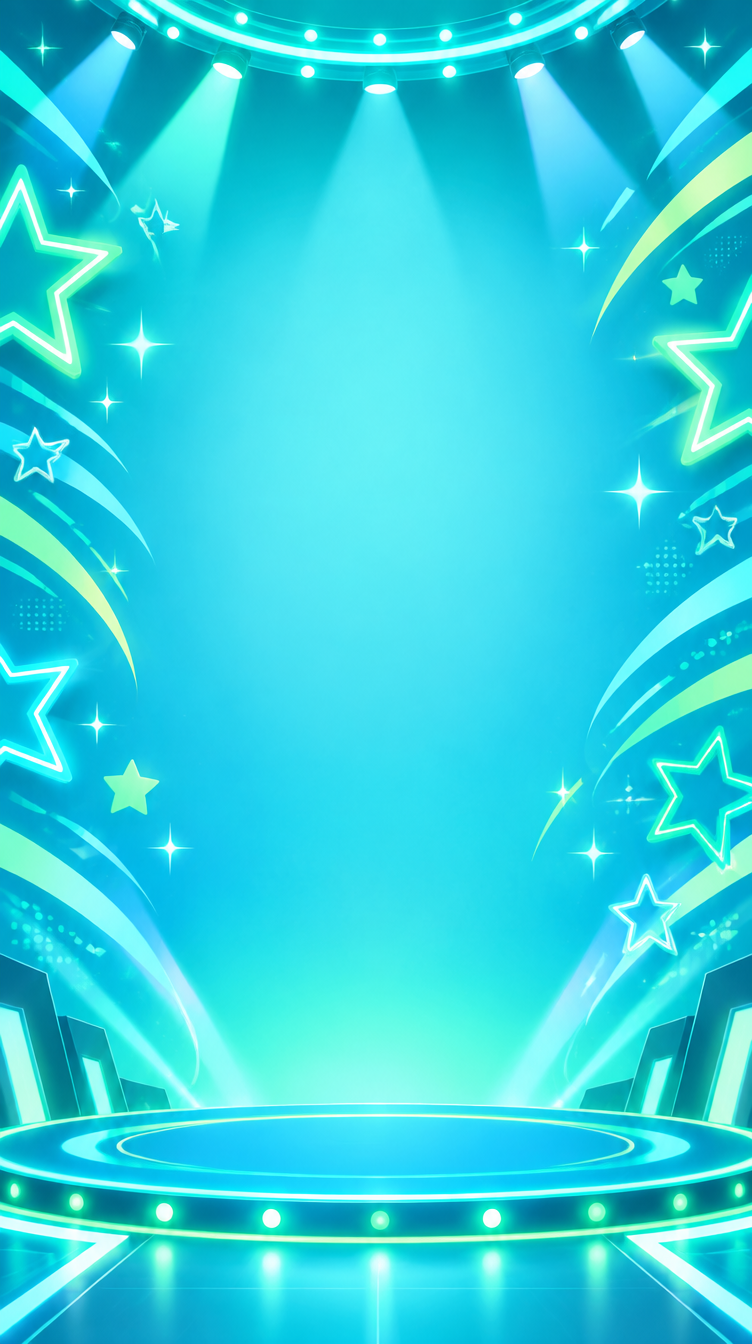
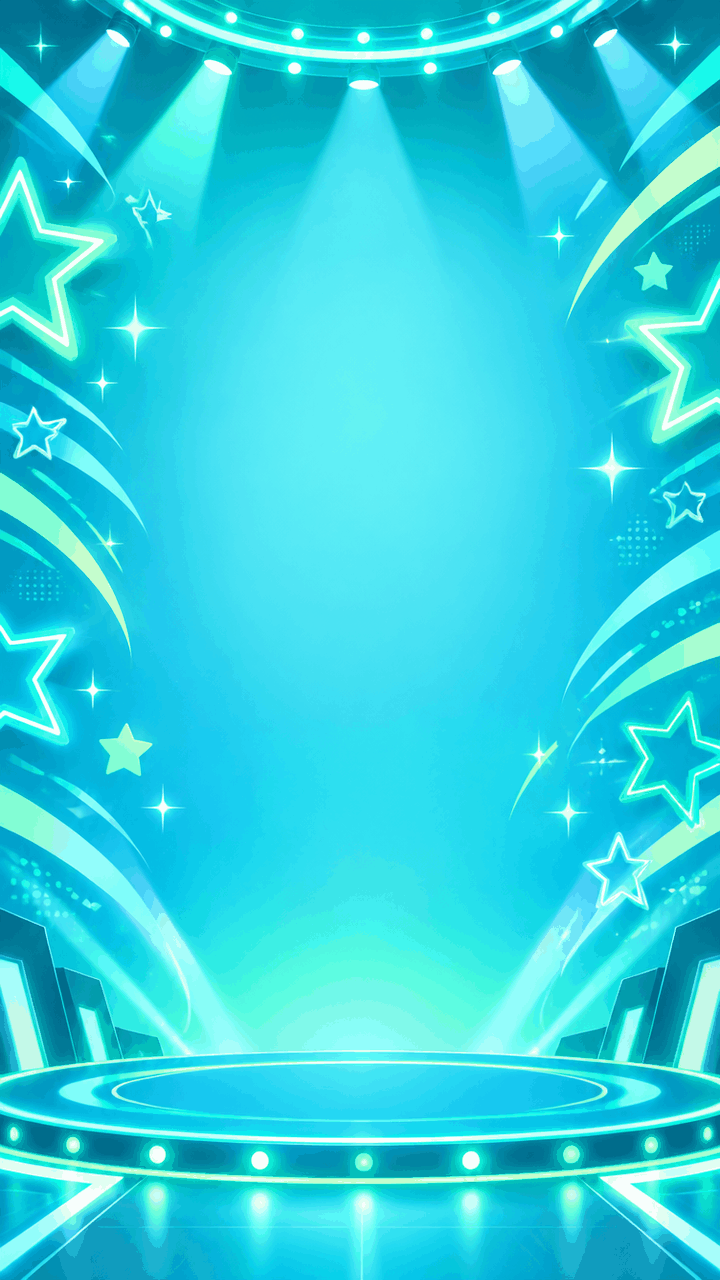
הכנת הנכסים המקוריים לשימוש באפליקציה
הנכסים ירדו בהצלחה דרך GitHub Actions, ונדרשה התאמה שלהם לתצוגה:

- הסרת רקע הצבע האחיד מהדמויות ומהחפצים והפיכתו לשקוף, כך שהם
  מופיעים כדמויות חופשיות מעל העיצוב ולא כריבועים
- הקטנת הרקעים לגודל מסך טלפון וצמצום משקל הקבצים, מ-22 מגה ל-6 מגה,
  לקיצור הטעינה הראשונה וההתקנה לא מקוונת
- התאמת התמונות למשמעותן: המתנה הסגורה מייצגת את הכספת הנעולה,
  ותיבת האוצר הפתוחה מייצגת את הכספת שנפתחה
- מקום ייעודי לדמות שמתקדמת על מד החיסכון, בלי חפיפה עם הצנצנת
- שלב ההכנה משולב בסקריפט ההורדה ובתהליך העבודה של GitHub

Claude-Session: https://claude.ai/code/session_01Jm16qUpvXXfbddouHmJmqr

diff --git a/src/screens/SavingsScreen.tsx b/src/screens/SavingsScreen.tsx
@@ -40,14 +40,14 @@ export function SavingsScreen({ onHome }: { onHome: () => void }) {
       {pastHalfway && (
         <div className="coins-strip">
           <img src="/assets/coins-big.png" alt="ערמת מטבעות" />
-          <span>עברת את חצי הדרך אל היעד</span>
+          <span>{moneyDone ? 'הגעת ליעד המלא' : 'עברת את חצי הדרך אל היעד'}</span>
         </div>
       )}
 
       <div className="vault-card">
         {vaultStatus === 'open' ? (
           <>
-            <img className="vault-img burst" src="/assets/gift.png" alt="הכספת נפתחה" />
+            <img className="vault-img burst" src="/assets/chest.png" alt="הכספת נפתחה" />
             <div className="big-amount">{state.savedAmount} ₪</div>
             <p className="speech">הכספת נפתחה! הכסף שלך והרווחת אותו בעבודה אמיתית.</p>
             <Hero mood="celebrate" size={180} />
@@ -56,8 +56,8 @@ export function SavingsScreen({ onHome }: { onHome: () => void }) {
           <>
             <img
               className={`vault-img${vaultStatus === 'ready' ? ' shake' : ''}`}
-              src="/assets/chest.png"
-              alt="כספת נעולה"
+              src="/assets/gift.png"
+              alt="המתנה שעדיין סגורה"
             />
             <div className="big-amount">{state.savedAmount} ₪</div>
             <p className="meter-label">

diff --git a/src/index.css b/src/index.css
@@ -272,6 +272,7 @@ button {
 
 .meter-track {
   position: relative;
+  margin-top: 34px;
   height: 26px;
   border-radius: 999px;
   background: rgba(255, 255, 255, 0.12);
@@ -289,8 +290,11 @@ button {
 
 .meter-hero {
   position: absolute;
-  top: -30px;
-  width: 46px;
+  top: -52px;
+  width: 44px;
+  height: 58px;
+  object-fit: contain;
+  object-position: bottom;
   transition: inset-inline-start 700ms cubic-bezier(0.22, 1, 0.36, 1);
   filter: drop-shadow(0 4px 8px rgba(0, 0, 0, 0.5));
 }

diff --git a/src/components/SavingsMeter.tsx b/src/components/SavingsMeter.tsx
@@ -35,7 +35,7 @@ export function SavingsMeter({ saved, goal, compact = false }: SavingsMeterProps
           src="/assets/hero.png"
           alt=""
           aria-hidden="true"
-          style={{ insetInlineStart: `calc(${markerPercent}% - 23px)` }}
+          style={{ insetInlineStart: `calc(${markerPercent}% - 22px)` }}
         />
       </div>
     </div>

diff --git a/scripts/optimize-assets.py b/scripts/optimize-assets.py
@@ -1,0 +1,128 @@
+"""מכין את הנכסים שירדו לשימוש באפליקציה.
+
+שתי פעולות:
+1. חפצים ודמויות: הסרת רקע הצבע האחיד והפיכתו לשקוף, חיתוך לשוליים והקטנה.
+2. רקעים: הקטנה לגודל מסך טלפון וצמצום משקל הקובץ.
+
+הקבצים המקוריים נשמרים בשרת המקור, והרצת scripts/fetch-assets.sh מחזירה אותם.
+"""
+import os
+import sys
+
+from PIL import Image, ImageDraw, ImageFilter
+
+ROOT = os.path.dirname(os.path.dirname(os.path.abspath(__file__)))
+ASSETS = os.path.join(ROOT, "public", "assets")
+
+# גודל התצוגה המרבי לכל סוג נכס, בפיקסלים
+CUTOUT_SIZES = {
+    "hero.png": 768,
+    "hero-cheer.png": 768,
+    "hero-encourage.png": 768,
+    "hero-celebrate.png": 768,
+    "coin.png": 512,
+    "coins-small.png": 512,
+    "coins-big.png": 512,
+    "jar.png": 512,
+    "chest.png": 512,
+    "trophy.png": 512,
+    "medal.png": 512,
+    "gift.png": 512,
+}
+
+BG_SIZE = (720, 1280)
+BG_COLORS = 160
+FLOOD_TOLERANCE = 42
+SENTINEL = (1, 2, 3)
+
+
+def remove_flat_background(image: Image.Image) -> Image.Image:
+    """מסיר את רקע הצבע האחיד בעזרת מילוי משוליים, כך שצבעים זהים בתוך הדמות נשמרים."""
+    rgb = image.convert("RGB")
+    width, height = rgb.size
+    work = rgb.copy()
+    seeds = [
+        (0, 0),
+        (width - 1, 0),
+        (0, height - 1),
+        (width - 1, height - 1),
+        (width // 2, 0),
+        (width // 2, height - 1),
+        (0, height // 2),
+        (width - 1, height // 2),
+    ]
+    for seed in seeds:
+        ImageDraw.floodfill(work, seed, SENTINEL, thresh=FLOOD_TOLERANCE)
+
+    import numpy as np
+
+    data = np.array(work)
+    is_background = (
+        (data[:, :, 0] == SENTINEL[0])
+        & (data[:, :, 1] == SENTINEL[1])
+        & (data[:, :, 2] == SENTINEL[2])
+    )
+    alpha = Image.fromarray(np.where(is_background, 0, 255).astype("uint8"), mode="L")
+    # ריכוך קל של הקצה כדי למנוע שפה חדה סביב הדמות
+    alpha = alpha.filter(ImageFilter.GaussianBlur(0.7))
+
+    result = rgb.convert("RGBA")
+    result.putalpha(alpha)
+    return result
+
+
+def process_cutout(name: str, max_size: int) -> str:
+    path = os.path.join(ASSETS, name)
+    before = os.path.getsize(path)
+    image = Image.open(path)
+    if image.mode == "RGBA" and image.getextrema()[3][0] < 255:
+        cut = image  # כבר שקוף, אין צורך להסיר רקע
+    else:
+        cut = remove_flat_background(image)
+    bbox = cut.getbbox()
+    if bbox:
+        cut = cut.crop(bbox)
+    cut.thumbnail((max_size, max_size), Image.LANCZOS)
+    cut.save(path, "PNG", optimize=True)
+    after = os.path.getsize(path)
+    return f"{name:22} {before // 1024}KB -> {after // 1024}KB  {cut.size[0]}x{cut.size[1]} שקוף"
+
+
+def process_background(name: str) -> str:
+    path = os.path.join(ASSETS, name)
+    before = os.path.getsize(path)
+    image = Image.open(path).convert("RGB")
+    image = image.resize(BG_SIZE, Image.LANCZOS)
+    image = image.quantize(colors=BG_COLORS, method=Image.MEDIANCUT, dither=Image.FLOYDSTEINBERG)
+    image.save(path, "PNG", optimize=True)
+    after = os.path.getsize(path)
+    return f"{name:22} {before // 1024}KB -> {after // 1024}KB  {BG_SIZE[0]}x{BG_SIZE[1]}"
+
+
+def main() -> None:
+    try:
+        import numpy  # noqa: F401
+    except ImportError:
+        print("נדרש numpy: pip install numpy", file=sys.stderr)
+        raise SystemExit(1)
+
+    lines = []
+    for name, size in CUTOUT_SIZES.items():
+        if os.path.exists(os.path.join(ASSETS, name)):
+            lines.append(process_cutout(name, size))
+    for table in range(2, 11):
+        name = f"bg-{table}.png"
+        if os.path.exists(os.path.join(ASSETS, name)):
+            lines.append(process_background(name))
+
+    total = sum(
+        os.path.getsize(os.path.join(ASSETS, f))
+        for f in os.listdir(ASSETS)
+        if f.endswith(".png")
+    )
+    print("\n".join(lines))
+    print(f"סך הכול: {total // 1024 // 1024} MB")
+
+
+if __name__ == "__main__":
+    main()

diff --git a/README.md b/README.md
@@ -25,12 +25,17 @@ npm run fetch-assets
 ```
 
 הסקריפט קורא את מיפוי השמות מ-`scripts/assets.txt`, מוודא שכל קובץ ירד בהצלחה ושהוא קובץ PNG
-גדול מארבעה קילובייטים, ואז מריץ את `scripts/make-icons.py` שחותך את שלושת האייקונים מתוך
-`coin.png` (דורש Pillow: `pip install pillow`).
+גדול מארבעה קילובייטים, מריץ את `scripts/optimize-assets.py` שמכין את הקבצים לשימוש, ולבסוף את
+`scripts/make-icons.py` שחותך את שלושת האייקונים מתוך `coin.png`. נדרשות שתי ספריות פייתון:
+`pip install pillow numpy`.
 
-הערה חשובה: הסביבה שבה נבנה הפרויקט חסמה גישת רשת אל דומיין הנכסים, ולכן הקבצים שבמאגר כרגע הם
-נכסים חלופיים זמניים שנוצרו על ידי `scripts/make-placeholders.py` באותם שמות ובאותו סגנון צבעים.
-הרצת `npm run fetch-assets` ממחשב עם גישה לדומיין דורסת אותם בקבצים המקוריים, בלי שום שינוי בקוד.
+שלב ההכנה עושה שני דברים. בדמויות ובחפצים הוא מסיר את רקע הצבע האחיד והופך אותו לשקוף, כך שהם
+מופיעים כדמויות חופשיות מעל עיצוב האפליקציה ולא כריבועים. ברקעים הוא מקטין לגודל מסך טלפון ומצמצם
+את משקל הקובץ. בלי השלב הזה הנכסים שוקלים כ-22 מגה, ואחריו כ-6 מגה, מה שמקצר משמעותית את הטעינה
+הראשונה ואת ההתקנה לא מקוונת בטלפון.
+
+אפשר גם להריץ את התהליך ישירות מ-GitHub בלי מחשב, דרך לשונית Actions ותהליך העבודה
+"הורדת נכסי האפליקציה", שמוריד את הקבצים ושומר אותם במאגר.
 
 ## פריסה עם HTTPS
 
